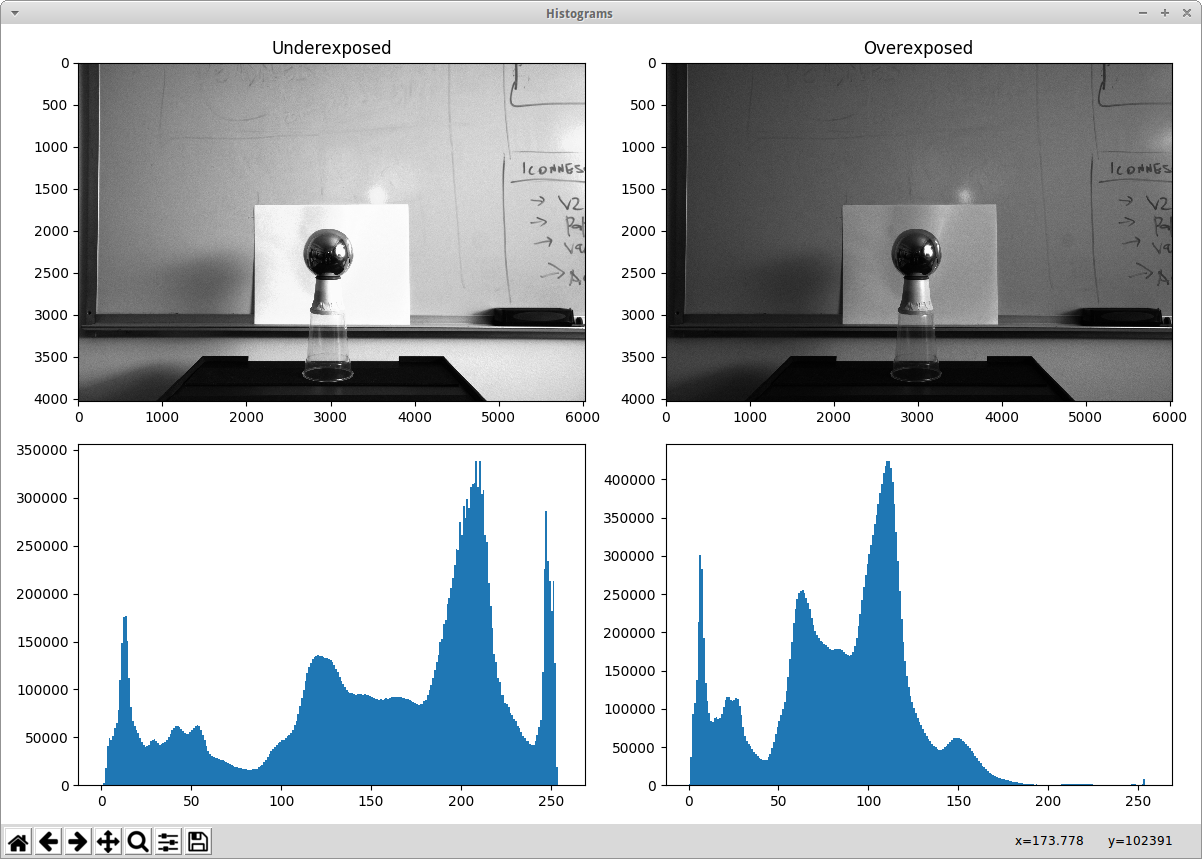
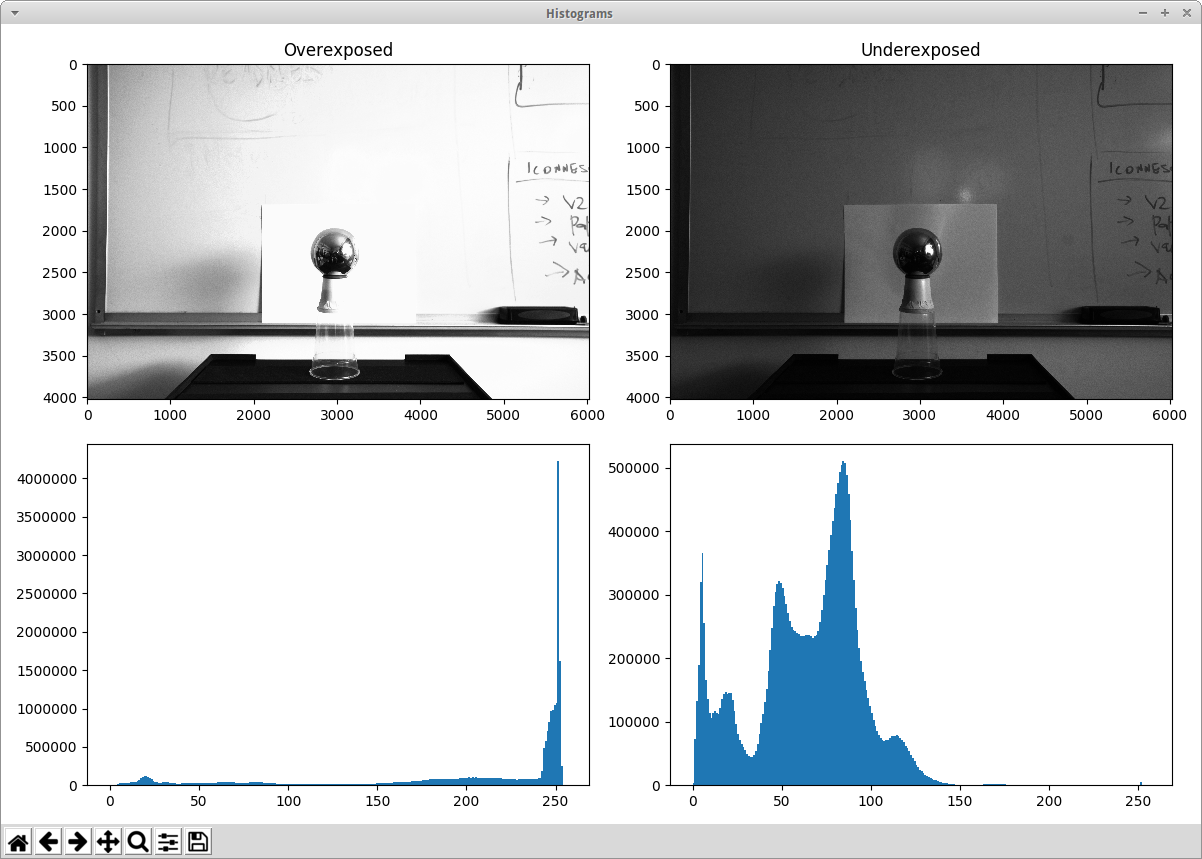
Testing openCV's HDR implementation

diff --git a/HDRmerge.py b/HDRmerge.py
@@ -1,34 +1,107 @@
 import cv2
 import numpy as np 
 import matplotlib.pyplot as plt
+import exifread
+import math
+
+print cv2.__version__
+
+def cvtTagToFloat(fnumber):
+	fnumber = str(fnumber)
+	if '/' in fnumber:
+		#coverts a string (non mixed) fraction to a float
+		num, den = fnumber.split( '/' )
+		return (float(num)/float(den))
+	else: 
+		return float(fnumber)
 
 
-'''first test with 8 bit per channel images, then try doing the same in 16 bit per channel'''
+img_fn = [
+	"../rawimages/HDRset_1/_DSC1717.ARW.tiff",
+	"../rawimages/HDRset_1/_DSC1718.ARW.tiff",
+	"../rawimages/HDRset_1/_DSC1719.ARW.tiff",
+	"../rawimages/HDRset_1/_DSC1720.ARW.tiff",
+	"../rawimages/HDRset_1/_DSC1721.ARW.tiff",
+	"../rawimages/HDRset_1/_DSC1722.ARW.tiff"]
+img_list = []
+times = []
 
-img1 = cv2.imread("../rawimages/HDRset_2/_DSC1714.ARW.tiff", cv2.IMREAD_ANYCOLOR | cv2.IMREAD_ANYDEPTH)
-img2 = cv2.imread("../rawimages/HDRset_2/_DSC1715.ARW.tiff", cv2.IMREAD_ANYCOLOR | cv2.IMREAD_ANYDEPTH)
+#create a list of the images and a list of their exposure times
+for fn in img_fn:
 
-print img1.dtype
-print img2.dtype
+	#read images
+	img_list.append(cv2.imread(fn, cv2.IMREAD_ANYCOLOR))
+
+	#read metadata tags
+	f = open(fn, 'rb')
+	tags = exifread.process_file(f, details=False)
+	f.close()
+
+	#parse metadata tags and store
+	fnumber = cvtTagToFloat(tags["EXIF FNumber"])
+	exposureTime = cvtTagToFloat(tags["EXIF ExposureTime"])
+	focalLength = tags["EXIF FocalLength"]
+	ISOspeed = tags["EXIF ISOSpeedRatings"]
+
+	#calculate exposure value
+	ev = math.log(fnumber**2/exposureTime, 2)
+
+	#another way of doing it is for every increase of ev by 1, exposuretime doubles
+	#so you could do it relatively to each other
+
+	#calculate a exposure time for a standard fnumber of 4
+	adjExposureTime = (4.0**2) / (2**ev)
+	times.append(adjExposureTime)
 
 
-img1 = cv2.cvtColor(img1, cv2.COLOR_BGR2RGB)
-img2 = cv2.cvtColor(img2, cv2.COLOR_BGR2RGB)
+exposure_times = np.array(times, dtype=np.float32)
+print len(img_list)
+print len(exposure_times)
 
-#convert to floating point (16 bit not properly implemented in pyplot)
-img1 = img1 / 65535.0
-img2 = img2 / 65535.0
+#Merge exposures to HDR image
+merge_debvec = cv2.createMergeDebevec()
+hdr_debvec = merge_debvec.process(img_list, times=exposure_times.copy())
 
-fig = plt.figure(figsize=(16,8), tight_layout = True)
-fig.canvas.set_window_title("HDR Merge")
-a=fig.add_subplot(1,2,1)
-plt.imshow(img1)
-a.set_title('Underexposed')
-a=fig.add_subplot(1,2,2)
-plt.imshow(img2)
-a.set_title('Overexposed')
+#Tonemap HDR image
+tonemap = cv2.createTonemapDurand(gamma=2.2)
+res_debvec = tonemap.process(hdr_debvec.copy())
+
+#Convert to 8-bit and save
+res_debvec_8bit = np.clip(res_debvec*255, 0, 255).astype("uint8")
+
+cv2.imwrite("res_debvec_8bit.jpg", res_debvec_8bit)
+
+
+
+#!!!!!WARNING, this might not work with images of 16 bit depth - need to test
+print "\n-----------------"
+print "Images datatype: %s" %(img_list[0].dtype)
+print "-----------------\n"
+
+plt.imshow(cv2.cvtColor(res_debvec_8bit, cv2.COLOR_BGR2RGB))
 plt.show()
 
+'''
+#for 16bit images
+def makePlotable(img):
+	#openCV in is BGR and pyplot uses RGB
+	img = cv2.cvtColor(img, cv2.COLOR_BGR2RGB)
+	#convert to floating point (16 bit not properly implemented in pyplot)
+	img = img / 65535.0
+	return img
+
+
+#plot all the images to be merged
+fig = plt.figure(figsize=(13,13),tight_layout = True)
+fig.canvas.set_window_title("HDR Merge")
+plots = len(img_list)
+rows = 1 + plots/3
+cols = 3
+for i in range(0, plots):
+	a=fig.add_subplot(rows, cols, i + 1)
+	plt.imshow(makePlotable(img_list[i]))
+plt.show()	
+'''
 
 
 

diff --git a/exif.py b/exif.py
@@ -1,0 +1,62 @@
+import exifread
+'''Uses exifread package (install using "sudo pip install exifread")'''
+
+f = open("../rawimages/HDRset_1/_DSC1718.ARW.tiff",
+'rb')
+tags = exifread.process_file(f, details=False)
+
+f.close()
+
+#Only output exif tags
+for tag in tags.keys():
+	if 'EXIF' in tag:
+		print "%s: %s" %(tag, tags[tag])
+
+#Output specific values
+fnumber = tags["EXIF FNumber"]
+exposureTime = tags["EXIF ExposureTime"]
+focalLength = tags["EXIF FocalLength"]
+ISOspeed = tags["EXIF ISOSpeedRatings"]
+
+print fnumber, exposureTime, focalLength, ISOspeed
+
+'''
+Documentation for @ https://pypi.python.org/pypi/ExifRead
+
+Example: processing tags
+
+-Code
+for tag in tags.keys():
+	#omit some tags that tend to be too long or boring
+    if tag not in ('JPEGThumbnail', 'TIFFThumbnail', 'Filename', 'EXIF MakerNote'):
+        print "Key: %s, value %s" % (tag, tags[tag])
+
+-Output
+Key: Image PhotometricInterpretation, value 2
+Key: Image ExifOffset, value 294
+Key: Image RowsPerStrip, value 4024
+Key: Image DateTime, value 2017:07:14 10:46:23
+Key: Image Software, value dcraw v9.26
+Key: Image SubfileType, value Full-resolution Image
+Key: Image Model, value ILCE-6500
+Key: EXIF FNumber, value 2
+Key: Image StripOffsets, value 1852
+Key: Image ResolutionUnit, value Pixels/Inch
+Key: Image Compression, value Uncompressed
+Key: Image ImageLength, value 4024
+Key: EXIF ExposureTime, value 1/160
+Key: Image InterColorProfile, value [0, 0, 1, 220, 0, 0, 0, 0, 2, 16, 0, 0, 109, 110, 116, 114, 82, 71, 66, 32, ... ]
+Key: Image ImageWidth, value 6024
+Key: Image Artist, value 
+Key: Image PlanarConfiguration, value 1
+Key: Image ImageDescription, value                                
+Key: EXIF FocalLength, value 24
+Key: Image StripByteCounts, value 145443456
+Key: Image BitsPerSample, value [16, 16, 16]
+Key: Image XResolution, value 300
+Key: Image Make, value Sony
+Key: EXIF ISOSpeedRatings, value 1600
+Key: Image YResolution, value 300
+Key: Image SamplesPerPixel, value 3
+
+'''

diff --git a/histograms.py b/histograms.py
@@ -2,15 +2,15 @@ import cv2
 import numpy as np 
 import matplotlib.pyplot as plt
 
+print cv2.__version__
 
-'''first test with 8 bit per channel images, then try doing the same in 16 bit per channel'''
-
-img1 = cv2.imread("../rawimages/HDRset_2/_DSC1714.ARW.tiff", cv2.IMREAD_ANYCOLOR)
-img2 = cv2.imread("../rawimages/HDRset_2/_DSC1715.ARW.tiff", cv2.IMREAD_ANYCOLOR)
+img1 = cv2.imread("../rawimages/HDRset_1/_DSC1718.ARW.tiff", cv2.IMREAD_ANYCOLOR)
+img2 = cv2.imread("../rawimages/HDRset_1/_DSC1720.ARW.tiff", cv2.IMREAD_ANYCOLOR)
 
 gray1 = cv2.cvtColor(img1, cv2.COLOR_BGR2GRAY)
 gray2 = cv2.cvtColor(img2, cv2.COLOR_BGR2GRAY)
 
+#haven't tried doing this with bit depth other than 8 (should be bit uint8)
 print gray1.dtype
 print gray2.dtype
 
@@ -28,10 +28,10 @@ fig = plt.figure(figsize=(12,8), tight_layout = True)
 fig.canvas.set_window_title("Histograms")
 a=fig.add_subplot(2,2,1)
 plt.imshow(gray1, cmap="gray")
-a.set_title('Underexposed')
+a.set_title('Overexposed')
 a=fig.add_subplot(2,2,2)
 plt.imshow(gray2, cmap="gray")
-a.set_title('Overexposed')
+a.set_title('Underexposed')
 a=fig.add_subplot(2,2,3)
 plt.hist(gray1.ravel(), 256, [0, 256])
 a=fig.add_subplot(2,2,4)

diff --git a/arguments.py b/arguments.py
@@ -1,0 +1,36 @@
+import argparse
+
+parser = argparse.ArgumentParser("calculate the square of a number")
+parser.add_argument("square", help="display a square of a given number", type=int)
+
+'''
+parser.add_argument("-v", "--verbosity", help="increase output verbosity", action="store_true")
+args = parser.parse_args()
+answer = args.square**2
+if args.verbosity:
+	print "the square of {} equals {}".format(args.square, answer)
+else:
+	print answer
+'''
+
+'''
+parser.add_argument("-v", "--verbosity", type=int, choices=[0,1,2], help="increases output verbosity")
+args = parser.parse_args()
+answer = args.square**2
+if args.verbosity == 2:
+	print "the square of {} equals {}".format(args.square, answer)
+elif args.verbosity == 1: 
+	print "{}^2 = {}".format(args.square, answer)
+else:
+	print answer
+'''
+
+parser.add_argument("-v", "--verbosity", action="count", help="increase output verbosity", default=0)
+args = parser.parse_args()
+answer = args.square**2
+if args.verbosity >= 2:
+	print "the square of {} equals {}".format(args.square, answer)
+elif args.verbosity >= 1:
+	print "{}^2 = {}".format(args.square, answer)
+else:
+	print answer

diff --git a/unwrap.py b/unwrap.py
@@ -23,7 +23,7 @@ blur = cv2.GaussianBlur(img, (5,5), 0)
 gray = cv2.cvtColor(blur, cv2.COLOR_BGR2GRAY)
 
 #detect circles in the image
-circles = cv2.HoughCircles(gray, cv2.cv.CV_HOUGH_GRADIENT, 1, 300, param1=100, param2=50, minRadius=10, maxRadius=0)
+circles = cv2.HoughCircles(gray, cv2.HOUGH_GRADIENT, 1, 300, param1=100, param2=50, minRadius=10, maxRadius=0)
 #for iphone photos, the threshold 200 works well, 
 #with the sony, the param1 threshold 100 works well
 

diff --git a/HDRmergescript.py b/HDRmergescript.py
@@ -1,0 +1,14 @@
+import argparse
+import subprocess
+
+parser = argsparse.ArgumentParser("combines multiple RAW images into a single HDR .tif image"
+parser.add_argument("images", nargs="+", help='input RAW files to be combined')
+parser.add_argument("-o", "--output", help="output file name", action="store_true")
+args = parser.parse_args()
+
+print args.images
+print args.output
+
+
+print subprocess.check_output(['ls', '-l'])
+
